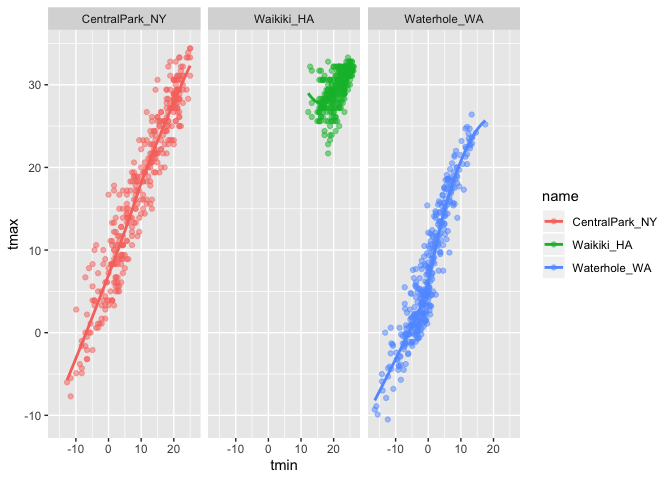
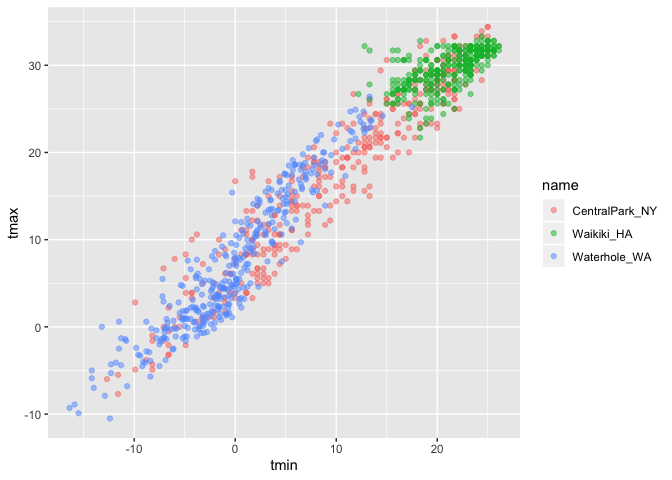
End of visualization lecture

diff --git a/Visualization2.md b/Visualization2.md
@@ -1,34 +1,151 @@
-Visualization 2
+Visualization2
 ================
 Misbath Daouda
-9/26/2019
+10/1/2019
 
 ``` r
-ggplot(weather_df, aes(x = tmin, y = tmax, color = name)) + 
-  geom_point(alpha = .5) +
-  geom_smooth(se = FALSE) + 
-  facet_grid(. ~ name)
+weather_df = 
+  rnoaa::meteo_pull_monitors(
+    c("USW00094728", "USC00519397", "USS0023B17S"),
+    var = c("PRCP", "TMIN", "TMAX"), 
+    date_min = "2017-01-01",
+    date_max = "2017-12-31") %>%
+  mutate(
+    name = recode(id, USW00094728 = "CentralPark_NY", 
+                      USC00519397 = "Waikiki_HA",
+                      USS0023B17S = "Waterhole_WA"),
+    tmin = tmin / 10,
+    tmax = tmax / 10) %>%
+  select(name, id, everything())
 ```
 
-    ## `geom_smooth()` using method = 'loess' and formula 'y ~ x'
+    ## Registered S3 method overwritten by 'crul':
+    ##   method                 from
+    ##   as.character.form_file httr
 
-    ## Warning: Removed 15 rows containing non-finite values (stat_smooth).
+    ## Registered S3 method overwritten by 'hoardr':
+    ##   method           from
+    ##   print.cache_info httr
+
+    ## file path:          /Users/misbath/Library/Caches/rnoaa/ghcnd/USW00094728.dly
+
+    ## file last updated:  2019-09-26 10:25:42
+
+    ## file min/max dates: 1869-01-01 / 2019-09-30
+
+    ## file path:          /Users/misbath/Library/Caches/rnoaa/ghcnd/USC00519397.dly
+
+    ## file last updated:  2019-09-26 10:25:53
+
+    ## file min/max dates: 1965-01-01 / 2019-09-30
+
+    ## file path:          /Users/misbath/Library/Caches/rnoaa/ghcnd/USS0023B17S.dly
+
+    ## file last updated:  2019-09-26 10:25:58
+
+    ## file min/max dates: 1999-09-01 / 2019-09-30
+
+create ggplot
+
+``` r
+weather_df %>% 
+  ggplot(aes(x = tmin, y = tmax)) + 
+  geom_point(aes(color = name), alpha = .5)
+```
 
     ## Warning: Removed 15 rows containing missing values (geom_point).
 
 ![](Visualization2_files/figure-markdown_github/unnamed-chunk-1-1.png)
 
+add labels
+
 ``` r
-ggplot(weather_df, aes(x = date, y = tmax, color = name)) + 
-  geom_point(aes(size = prcp), alpha = .5) +
-  geom_smooth(se = FALSE) + 
-  facet_grid(. ~ name)
+weather_df %>% 
+  ggplot(aes(x = tmin, y = tmax)) + 
+  geom_point(aes(color = name), alpha = .5) + 
+  labs(
+    title = "Temperature plot",
+    x = "Minimum daily temperature (C)",
+    y = "Maxiumum daily temperature (C)",
+    caption = "Data from the rnoaa package"
+  )
 ```
 
-    ## `geom_smooth()` using method = 'loess' and formula 'y ~ x'
-
-    ## Warning: Removed 3 rows containing non-finite values (stat_smooth).
-
-    ## Warning: Removed 3 rows containing missing values (geom_point).
+    ## Warning: Removed 15 rows containing missing values (geom_point).
 
 ![](Visualization2_files/figure-markdown_github/unnamed-chunk-2-1.png)
+
+x axis tick marks etc
+
+``` r
+weather_df %>% 
+  ggplot(aes(x = tmin, y = tmax)) + 
+  geom_point(aes(color = name), alpha = .5) + 
+  labs(
+    title = "Temperature plot",
+    x = "Minimum daily temperature (C)",
+    y = "Maxiumum daily temperature (C)",
+    caption = "Data from the rnoaa package"
+  ) + 
+  scale_x_continuous(
+    breaks = c(-15, -5, 20), 
+    labels = c("-15º C", "0", "15"))
+```
+
+    ## Warning: Removed 15 rows containing missing values (geom_point).
+
+![](Visualization2_files/figure-markdown_github/unnamed-chunk-3-1.png)
+
+Transforming axes
+
+``` r
+weather_df %>% 
+  ggplot(aes(x = tmin, y = tmax)) + 
+  geom_point(aes(color = name), alpha = .5) + 
+  labs(
+    title = "Temperature plot",
+    x = "Minimum daily temperature (C)",
+    y = "Maxiumum daily temperature (C)",
+    caption = "Data from the rnoaa package") + 
+  scale_x_continuous(
+    breaks = c(-15, 0, 15), 
+    labels = c("-15ºC", "0", "15"),
+    limits = c(-20, 30)) + 
+  scale_y_continuous(
+    trans = "sqrt", 
+    position = "right")
+```
+
+    ## Warning in self$trans$transform(x): NaNs produced
+
+    ## Warning: Transformation introduced infinite values in continuous y-axis
+
+    ## Warning: Removed 90 rows containing missing values (geom_point).
+
+![](Visualization2_files/figure-markdown_github/unnamed-chunk-4-1.png)
+
+``` r
+#can also do scale_y_sqrt()
+```
+
+``` r
+weather_df %>% 
+  ggplot(aes(x = tmin, y = tmax)) + 
+  geom_point(aes(color = name), alpha = .5) + 
+  labs(
+    title = "Temperature plot",
+    x = "Minimum daily temperature (C)",
+    y = "Maxiumum daily temperature (C)",
+    caption = "Data from the rnoaa package") + 
+  scale_color_hue(
+    name = "Location", 
+    h = c(100, 300))
+```
+
+    ## Warning: Removed 15 rows containing missing values (geom_point).
+
+![](Visualization2_files/figure-markdown_github/unnamed-chunk-5-1.png)
+
+``` r
+#scale_color_ will provide many options 
+```
